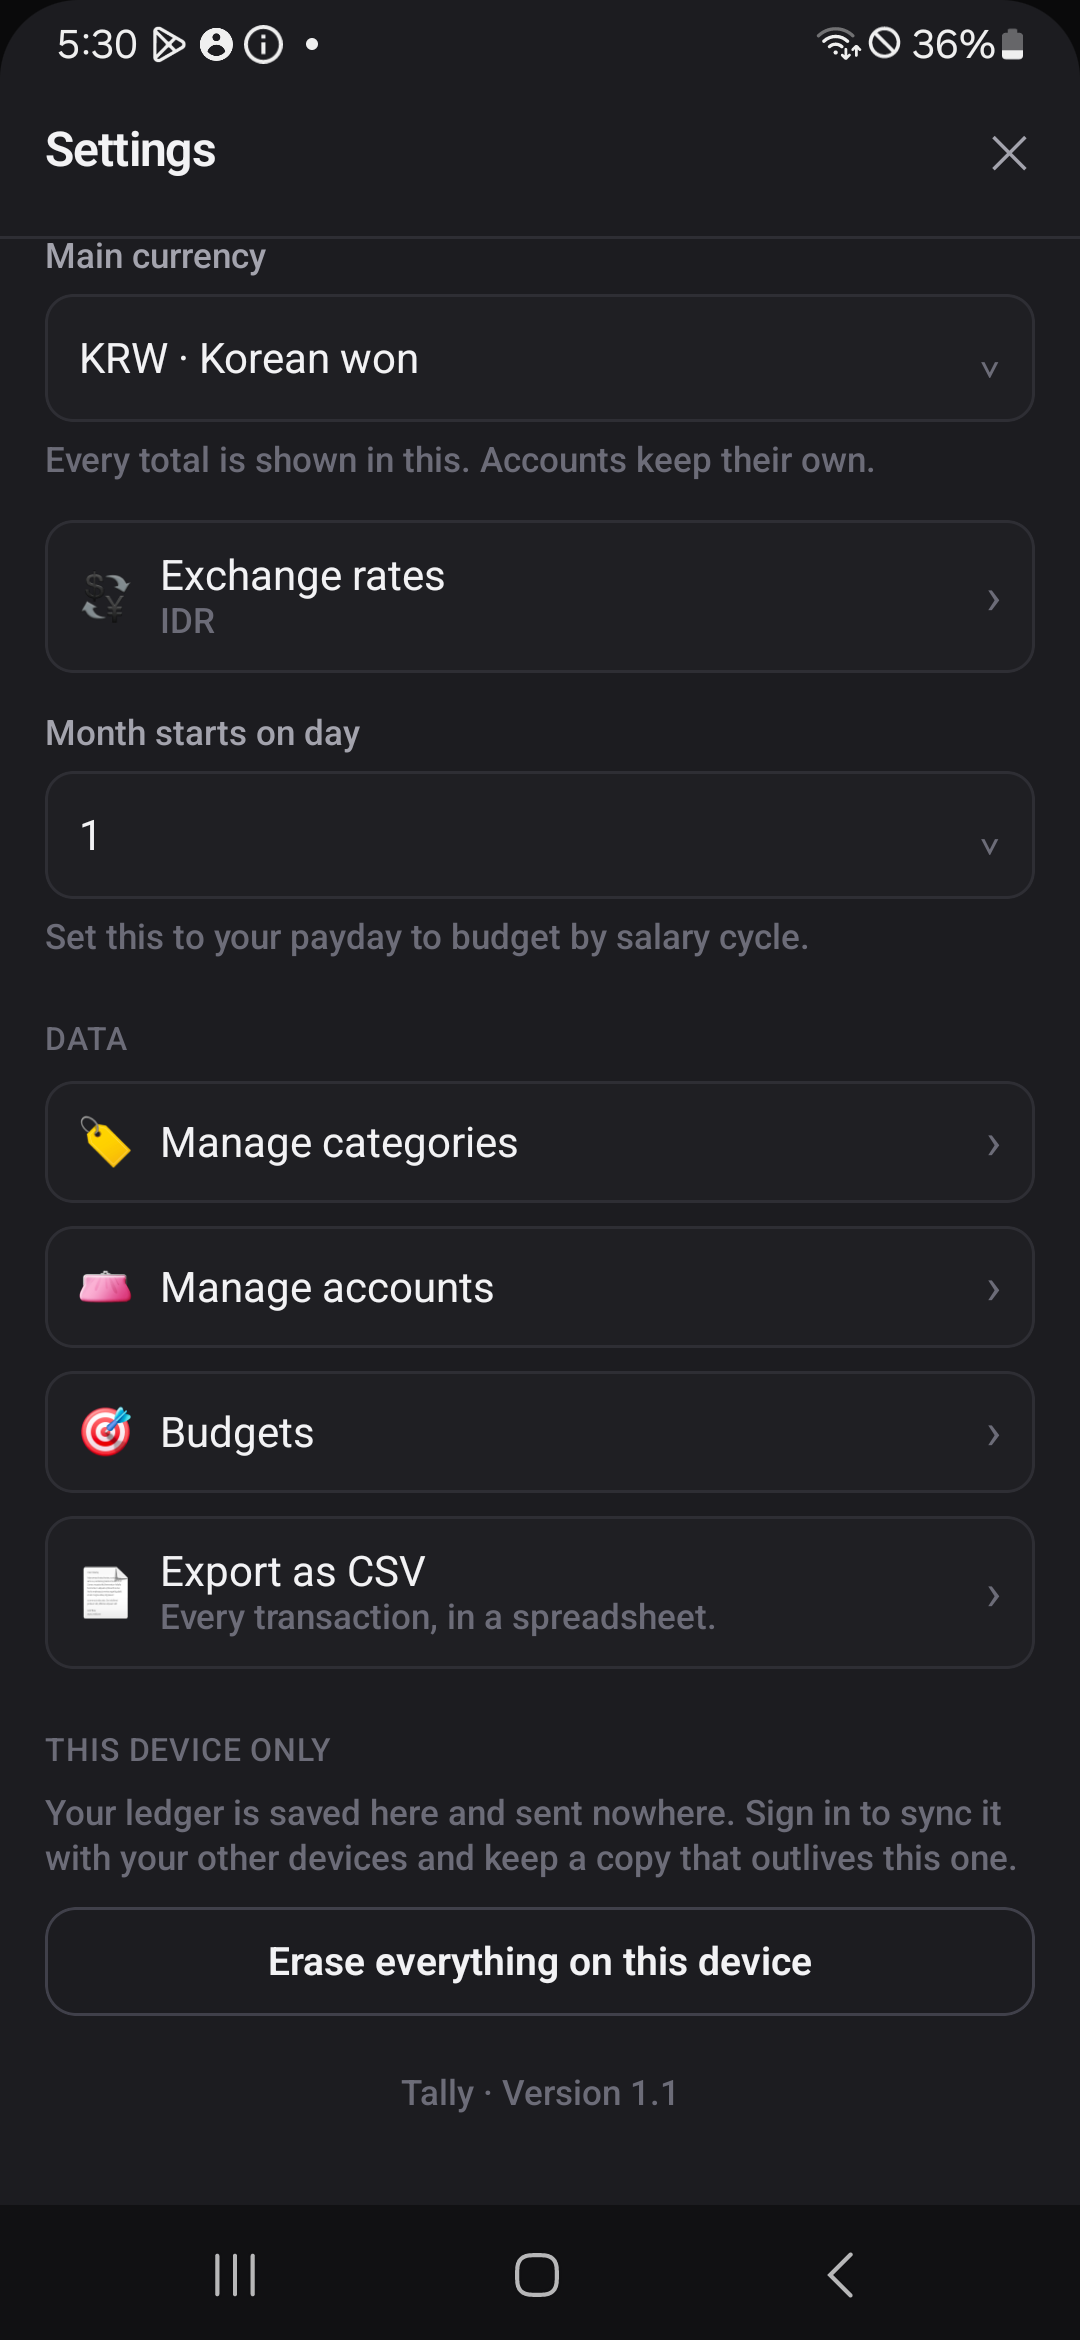
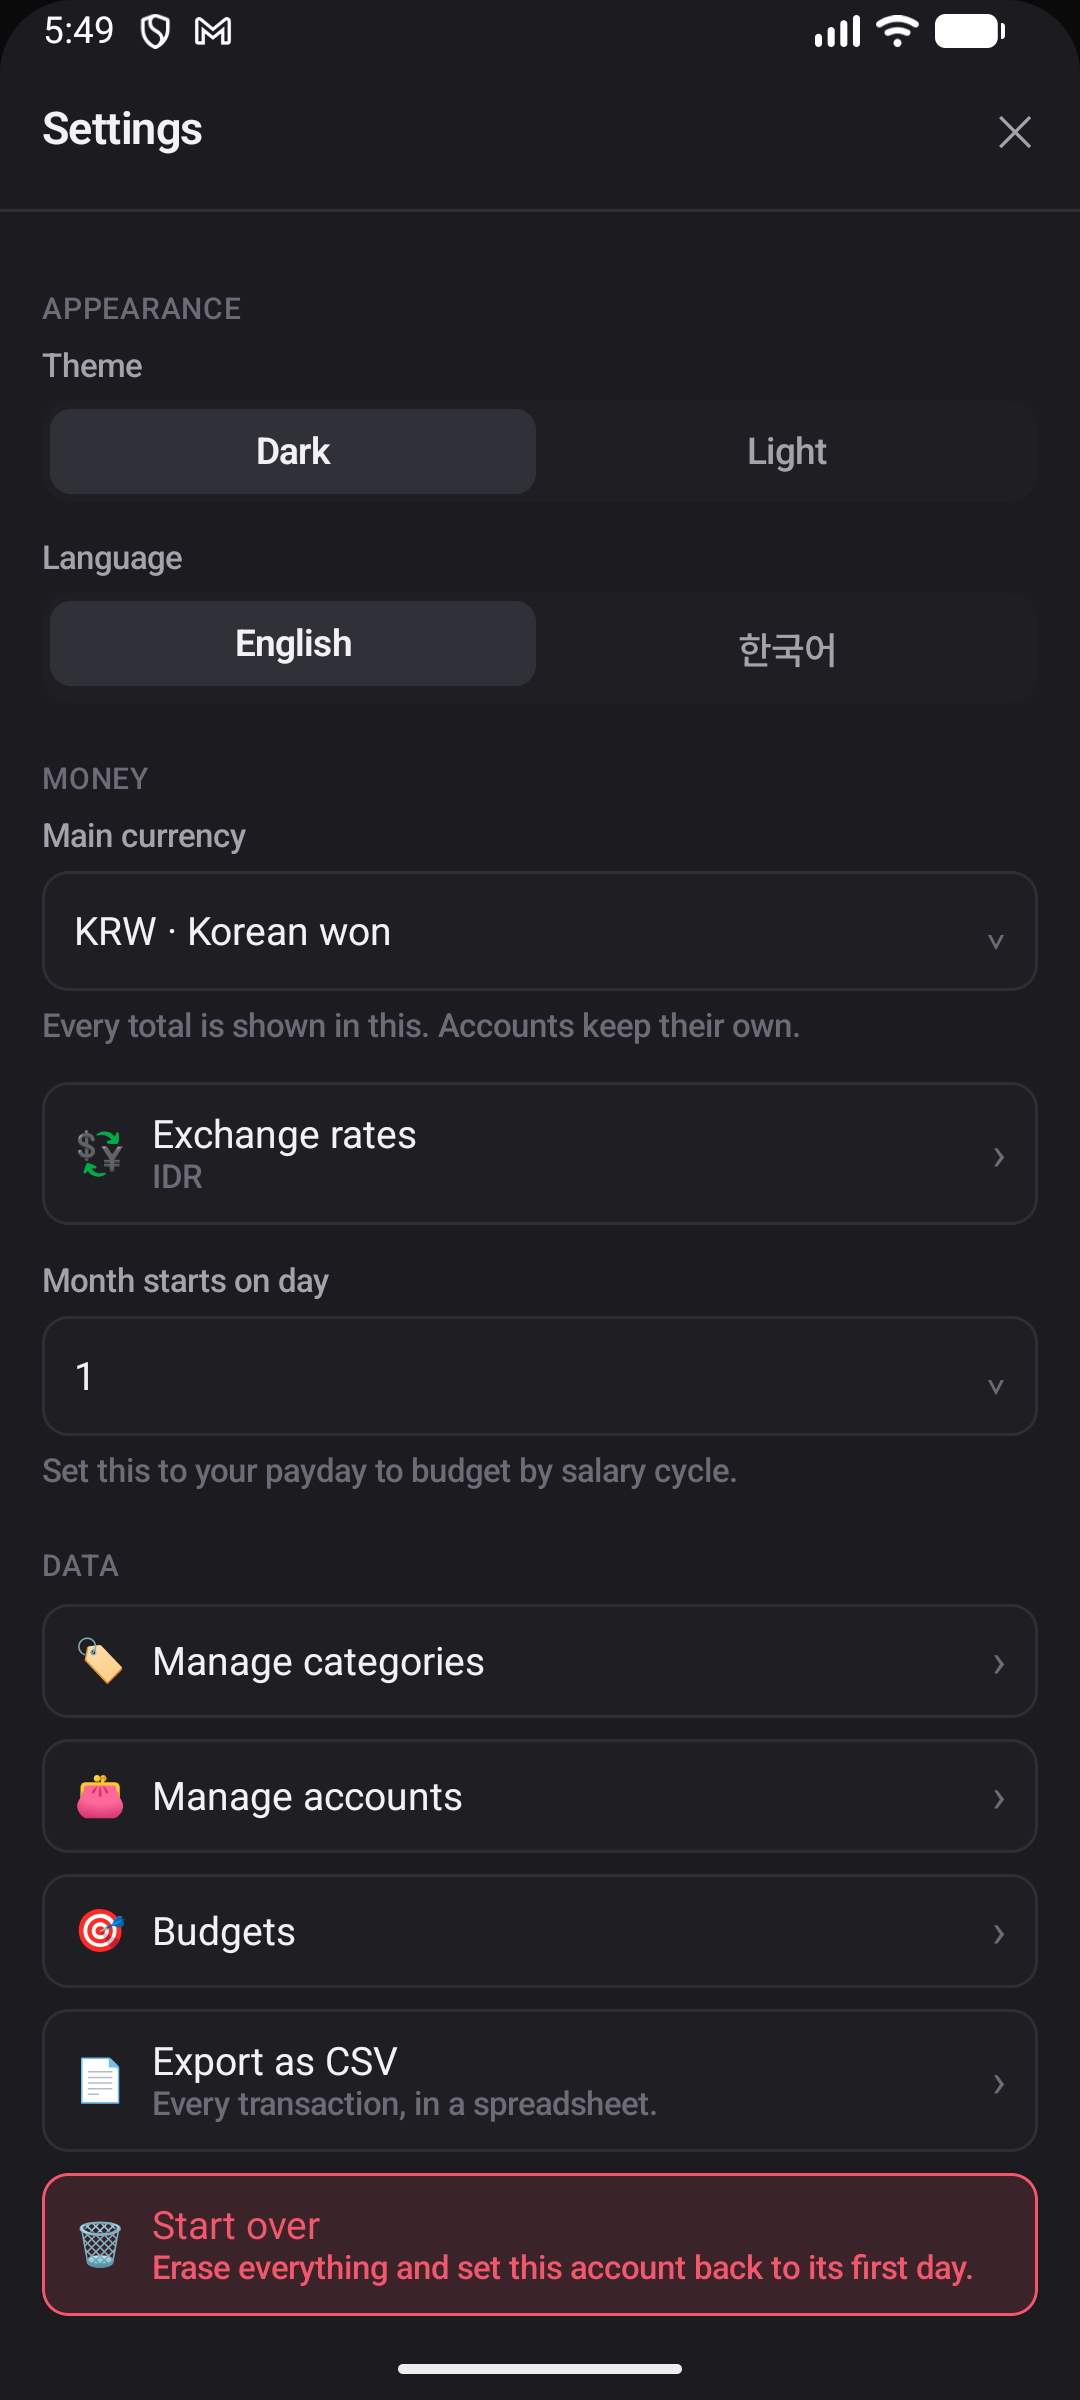
Stop spending three screenshots on one screen
Three of the six pictures at the top of this file were the log — dark, then
light, then Korean — and one of them was not even light. The screenshot run
seeded a light ledger, the app of the day read the setting and drew the dark
theme anyway, and what got committed was a duplicate of the shot above it
with one icon changed. That bug is fixed; the picture of it was still here.

Six different screens now, with the last one carrying both the light theme
and the Korean translation at once. Settings takes the place that opened up,
which is also the one screen that had never been photographed with "Start
over" on it. All retaken from the current build, so the sign-in shot no
longer has the three feature blurbs that were removed a commit ago.

tools/screenshots.sh made both of the mistakes this run had to work around
by hand. It looked for the menu and the add button by a content description
that Compose does not give them, so it silently photographed whatever was
behind them — a launcher, in one case — and it computed the add button's
position as a percentage of the screen, which missed. Both are now read from
the hierarchy, as everything else in that script already was.

diff --git a/README.md b/README.md
@@ -14,13 +14,15 @@ Web app: [hanifedma/tally](https://github.com/hanifedma/tally)
 </p>
 <p align="center">
   <img src="docs/screenshots/editor.png" width="240" alt="Adding a transaction, with a calculator in the amount field" />
-  <img src="docs/screenshots/log-light.png" width="240" alt="The same screen in light mode" />
-  <img src="docs/screenshots/log-korean.png" width="240" alt="The same screen in Korean" />
+  <img src="docs/screenshots/settings.png" width="240" alt="Settings: theme, language, main currency, and a way back to an empty ledger" />
+  <img src="docs/screenshots/log-korean-light.png" width="240" alt="The log again, this time in Korean and in light mode" />
 </p>
 
 <p align="center"><sub>
-Taken on a Galaxy A15 (Android 14) by <a href="tools/screenshots.sh">tools/screenshots.sh</a>.
-The ledger in them is the one the
+Six screens, six different things — the last one carries both the light theme
+and the Korean translation rather than spending a picture on each.
+Taken by <a href="tools/screenshots.sh">tools/screenshots.sh</a>. The ledger in
+them is the one the
 <a href="https://github.com/hanifedma/tally#readme">web screenshots</a> use, so
 the two can be compared row by row — the same ₩260,768 of expenses, the same
 ₩13,139,252 of net worth, arrived at by two separate implementations.
@@ -68,8 +70,7 @@ This is also the only way in on a phone with no Google Play Services, where
 Credential Manager cannot offer an account at all.
 
 <p align="center">
-  <img src="docs/screenshots/setup.png" width="240" alt="First run: a way in that needs no project and no account" />
-  <img src="docs/screenshots/settings.png" width="240" alt="Settings, saying plainly that this ledger is on this device only" />
+  <img src="docs/screenshots/login.png" width="240" alt="First run: sign in with Google, or use the app with no account at all" />
 </p>
 
 ## Setup
@@ -83,7 +84,7 @@ Supabase project and one Google OAuth client serve both apps.
 ```bash
 ./gradlew assembleRelease     # app/build/outputs/apk/release/app-release.apk
 ./gradlew installDebug        # onto a connected device or emulator
-./gradlew test                # 45 unit tests, no device needed
+./gradlew test                # 56 unit tests, no device needed
 ./gradlew connectedAndroidTest  # the screen tests; needs a device
 ./tools/screenshots.sh        # docs/screenshots/; needs a device
 ```
@@ -118,11 +119,21 @@ It is produced from the web app's `i18n.js`:
 cd ../tally && node tools/gen-android-strings.mjs ../tally-android
 ```
 
-Two hand-maintained copies of two hundred and forty strings drift within a
+Two hand-maintained copies of nearly three hundred strings drift within a
 week — a key renamed on one side and the phone quietly starts showing
 `tx.saveAnother` where a button should be. So the web table is the source and
-this is a build artefact that happens to be committed. `ParityTest` fails if it
-falls behind, or if either language is missing a key or a `{placeholder}`.
+this is a build artefact that happens to be committed.
+
+The handful of strings only the phone says — one names a file that exists only
+in this repo, one names a failure only Credential Manager can have — live at
+the top of the generator, not pencilled into `Strings.kt` afterwards, where
+the next run would silently delete them.
+
+Nothing checks this file against `i18n.js` automatically: that table is
+JavaScript and these tests run on the JVM. `ParityTest` checks what it can from
+this side — that every key exists in both languages, and that no
+`{placeholder}` was lost in translation. Falling behind `i18n.js` is caught by
+running the generator, not by a test.
 
 ### The parity tests
 
